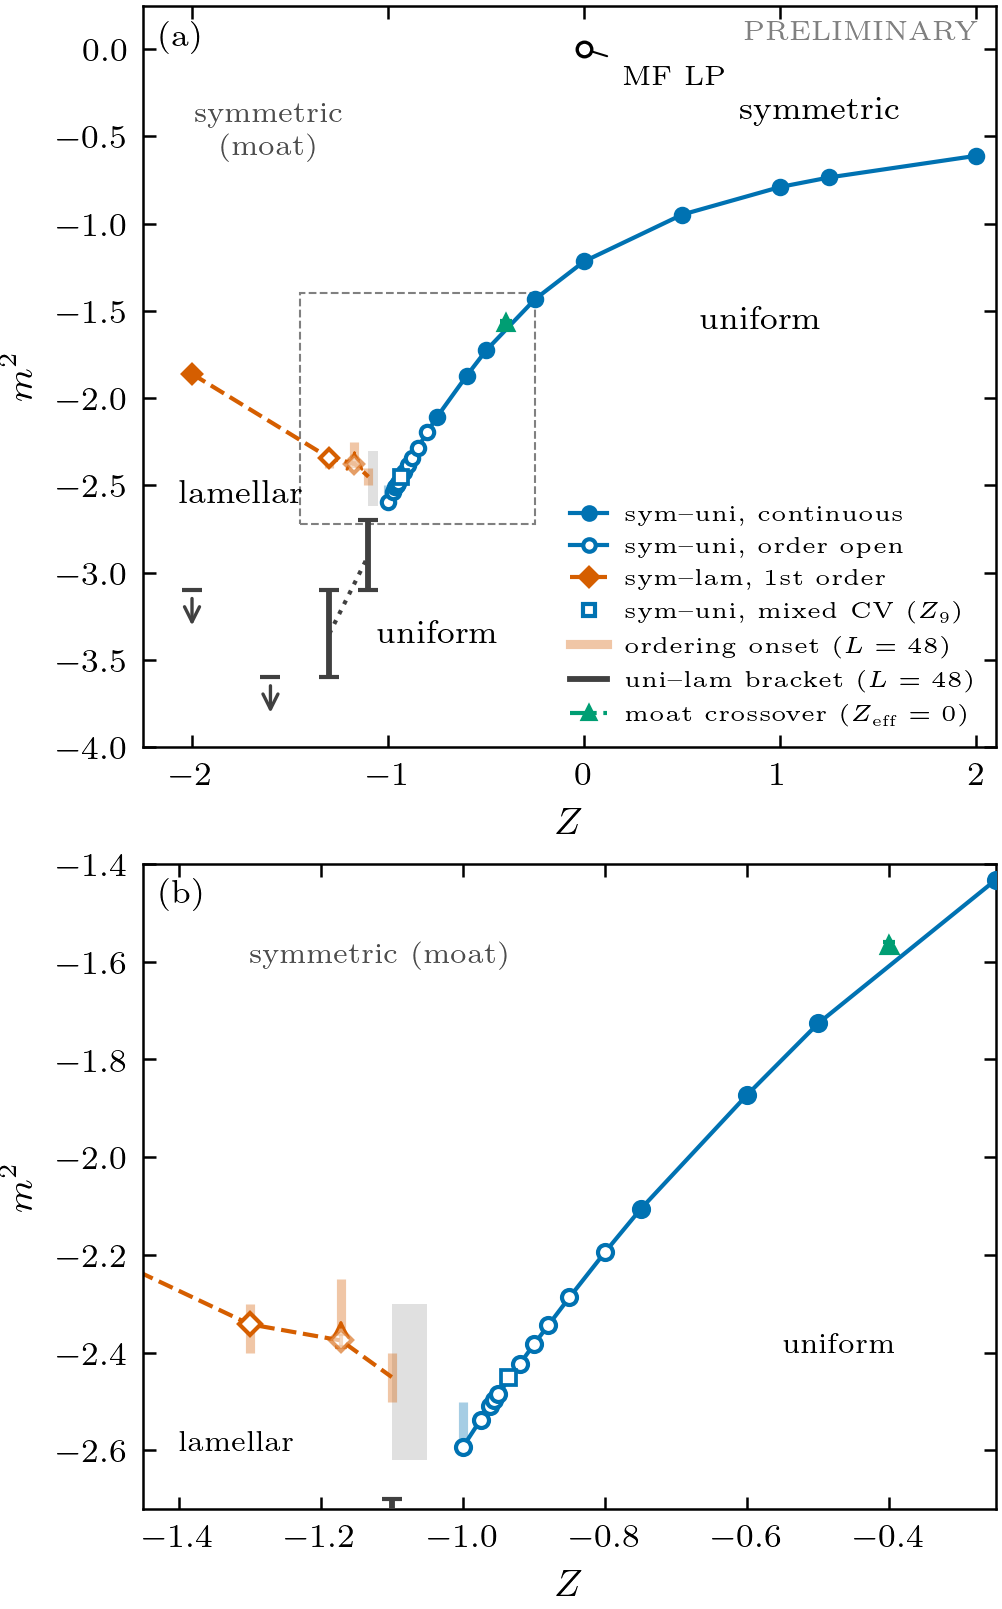
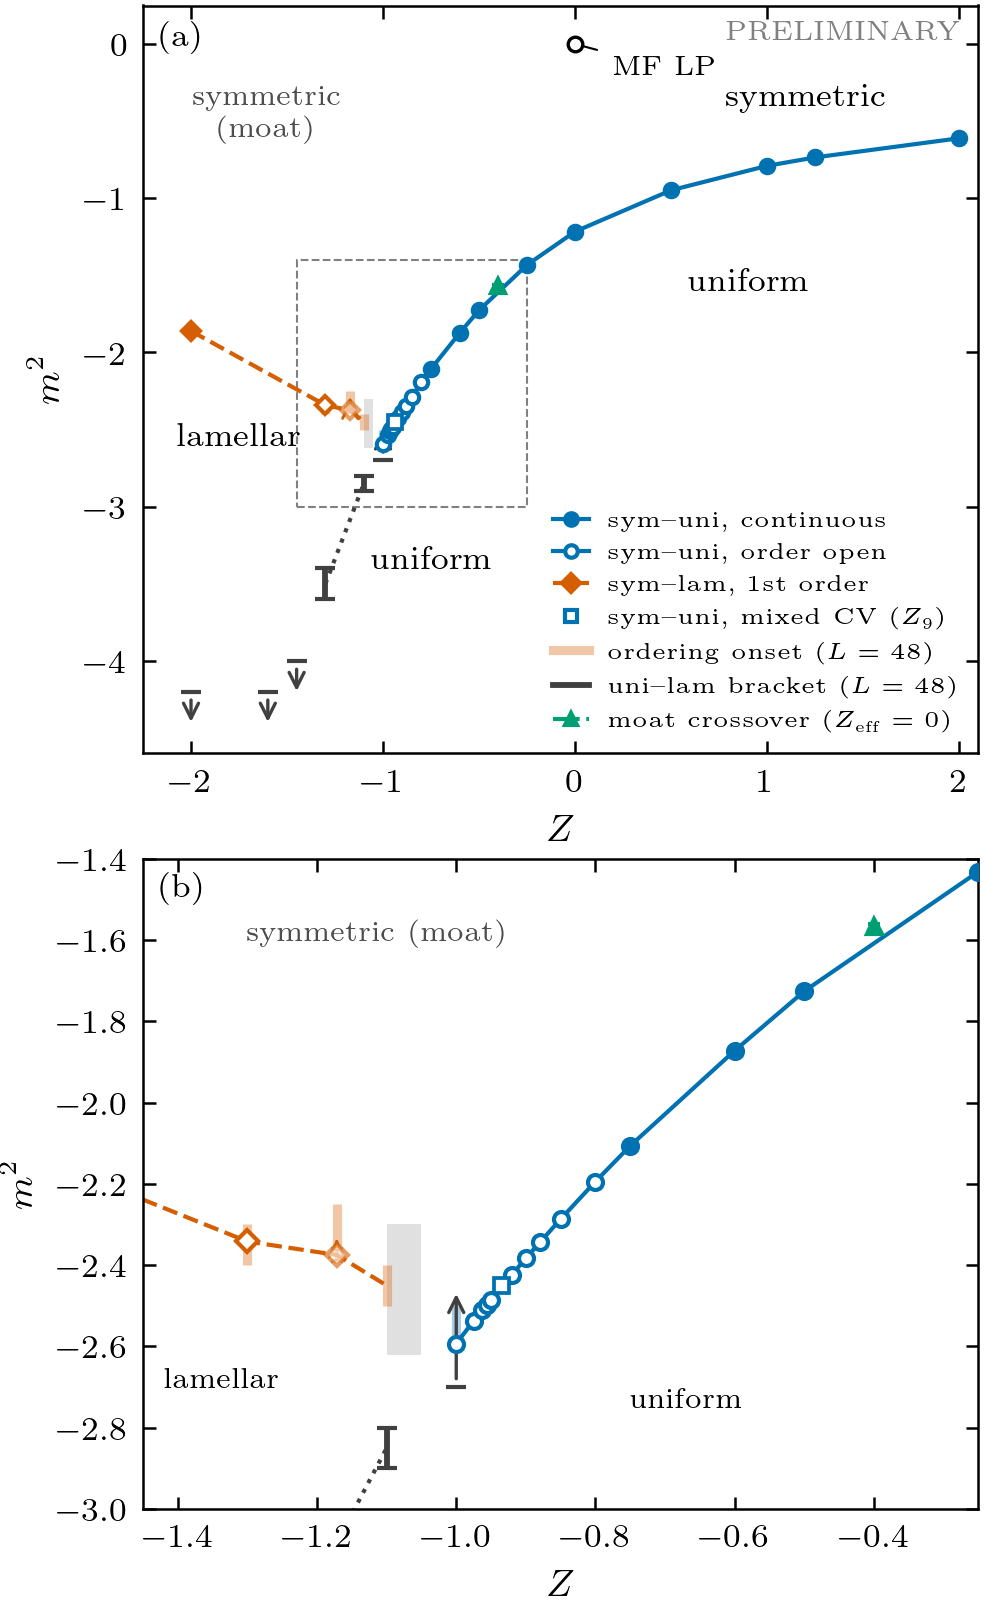
ulam+ulam2 complete: uniform<->lamellar line Z=-1.1 (-2.9,-2.8), Z=-1.3 (-3.6,-3.4), below -4.0/-4.2 for Z<=-1.45; uniform wins at Z=-1.0 down from -2.7; majority-winner brackets with open ends in the preliminary diagram

diff --git a/scripts/fig_phase_diagram.py b/scripts/fig_phase_diagram.py
@@ -19,8 +19,8 @@ Symbols
 * uniform <-> lamellar: brackets from the local direct-coexistence runs (stages ulam, ulam2;
   reports/ulam/summary.csv, scripts/analyze_ulam.py).  Half-uniform / half-lamellar L = 48
   boxes; the bar spans the lowest m2 where lamellae invade (all replicas) to the highest m2
-  where the uniform phase invades.  Where no uniform win was found yet, a downward arrow from
-  the lowest lamellar-win mass.
+  where the uniform phase invades (majority of replicas).  Arrows: open ends (line below the
+  deepest lamellar win, or above the highest uniform win).
 * symmetric -> moat crossover: Z_eff = 0 (curvature of 1/S at k = 0 changes sign), from
   reports/sk_symmetric/moat_line.csv (scripts/moat_line.py).  For -1.05 <= Z <= -0.6 the
   moat persists to within ~0.02 of the uniform transition (no separate line visible).
@@ -67,8 +67,13 @@ def lamellar_points() -> list[dict]:
     return out
 
 
-def ulam_brackets() -> list[tuple[float, float, float | None]]:
-    """(Z, lowest m2 with lamellar win, highest m2 with uniform win or None)."""
+def ulam_brackets() -> list[tuple[float, float | None, float | None]]:
+    """(Z, lowest m2 where lamellae win, highest m2 below it where the uniform phase wins).
+
+    Per run the winner is the phase that invaded more replicas (pinned slabs, mostly the
+    layers-parallel replicas, carry no vote).  None marks an open end: the line lies below
+    the deepest lamellar win (lo given, hi None) or above the highest uniform win (lo None).
+    """
     f = ROOT / "reports" / "ulam" / "summary.csv"
     if not f.is_file():
         return []
@@ -76,13 +81,14 @@ def ulam_brackets() -> list[tuple[float, float, float | None]]:
     t = t[t.complete.astype(bool)]
     out = []
     for Z, g in t.groupby("Z"):
-        lam = g[g.lamellar == g[["uniform", "lamellar", "slab", "symmetric"]].sum(axis=1)].m2
-        uni = g[g.uniform > 0].m2
-        if lam.empty:
+        lam = g[g.lamellar > g.uniform].m2
+        uni = g[g.uniform > g.lamellar].m2
+        lo = lam.min() if not lam.empty else None
+        cand = uni[uni < lo] if lo is not None else uni
+        hi = cand.max() if not cand.empty else None
+        if lo is None and hi is None:
             continue
-        lo = lam.min()
-        hi = uni[uni < lo].max() if not uni.empty else None
-        out.append((round(Z, 4), lo, None if hi is None or np.isnan(hi) else hi))
+        out.append((round(Z, 4), lo, hi))
     return out
 
 
@@ -105,7 +111,10 @@ def draw(ax, U, lam, H, inset=False, UL=(), MO=None):
         ax.errorbar(MO.Z, MO.m2_moat, yerr=MO["sys"].fillna(0), fmt="^-.", ms=ms, lw=0.9, color=C_MOAT, zorder=4)
     mid = []
     for Z, lo, hi in UL:
-        if hi is None:
+        if lo is None:
+            ax.annotate("", (Z, hi + 0.25), (Z, hi), arrowprops=dict(arrowstyle="->", lw=0.8, color=C_UM))
+            ax.plot([Z], [hi], "_", ms=5, mew=1.0, color=C_UM)
+        elif hi is None:
             ax.annotate("", (Z, lo - 0.25), (Z, lo), arrowprops=dict(arrowstyle="->", lw=0.8, color=C_UM))
             ax.plot([Z], [lo], "_", ms=5, mew=1.0, color=C_UM)
         else:
@@ -161,7 +170,7 @@ def main() -> int:
                                  gridspec_kw={"height_ratios": [1.15, 1]})
     draw(ax, U, lam, H, UL=UL, MO=MO)
     ax.set_xlim(-2.25, 2.1)
-    ax.set_ylim(-4.0, 0.25)
+    ax.set_ylim(-4.6, 0.25)
     ax.set_xlabel(r"$Z$")
     ax.set_ylabel(r"$m^2$")
     ax.text(1.2, -0.4, "symmetric", ha="center", fontsize=8)
@@ -173,7 +182,7 @@ def main() -> int:
     ax.text(0.98, 0.98, "PRELIMINARY", transform=ax.transAxes, ha="right", va="top", fontsize=6.5, color="0.5")
     ax.text(0.02, 0.98, "(a)", transform=ax.transAxes, va="top", fontsize=8)
 
-    zx, zy = (-1.45, -0.25), (-2.72, -1.40)
+    zx, zy = (-1.45, -0.25), (-3.0, -1.40)
     from matplotlib.patches import Rectangle
     ax.add_patch(Rectangle((zx[0], zy[0]), zx[1] - zx[0], zy[1] - zy[0], fill=False, ec="0.5", lw=0.5, ls="--"))
     draw(bx, U, lam, H, inset=True, UL=UL, MO=MO)
@@ -183,8 +192,8 @@ def main() -> int:
     bx.set_ylabel(r"$m^2$")
     bx.text(0.02, 0.98, "(b)", transform=bx.transAxes, va="top", fontsize=8)
     bx.text(-1.3, -1.6, "symmetric (moat)", fontsize=7, color="0.3")
-    bx.text(-0.55, -2.4, "uniform", fontsize=7)
-    bx.text(-1.4, -2.6, "lamellar", fontsize=7)
+    bx.text(-0.75, -2.75, "uniform", fontsize=7)
+    bx.text(-1.42, -2.7, "lamellar", fontsize=7)
 
     from matplotlib.lines import Line2D
     h = [Line2D([], [], marker="o", ls="-", color=C_UNI, ms=3, label="sym–uni, continuous"),
